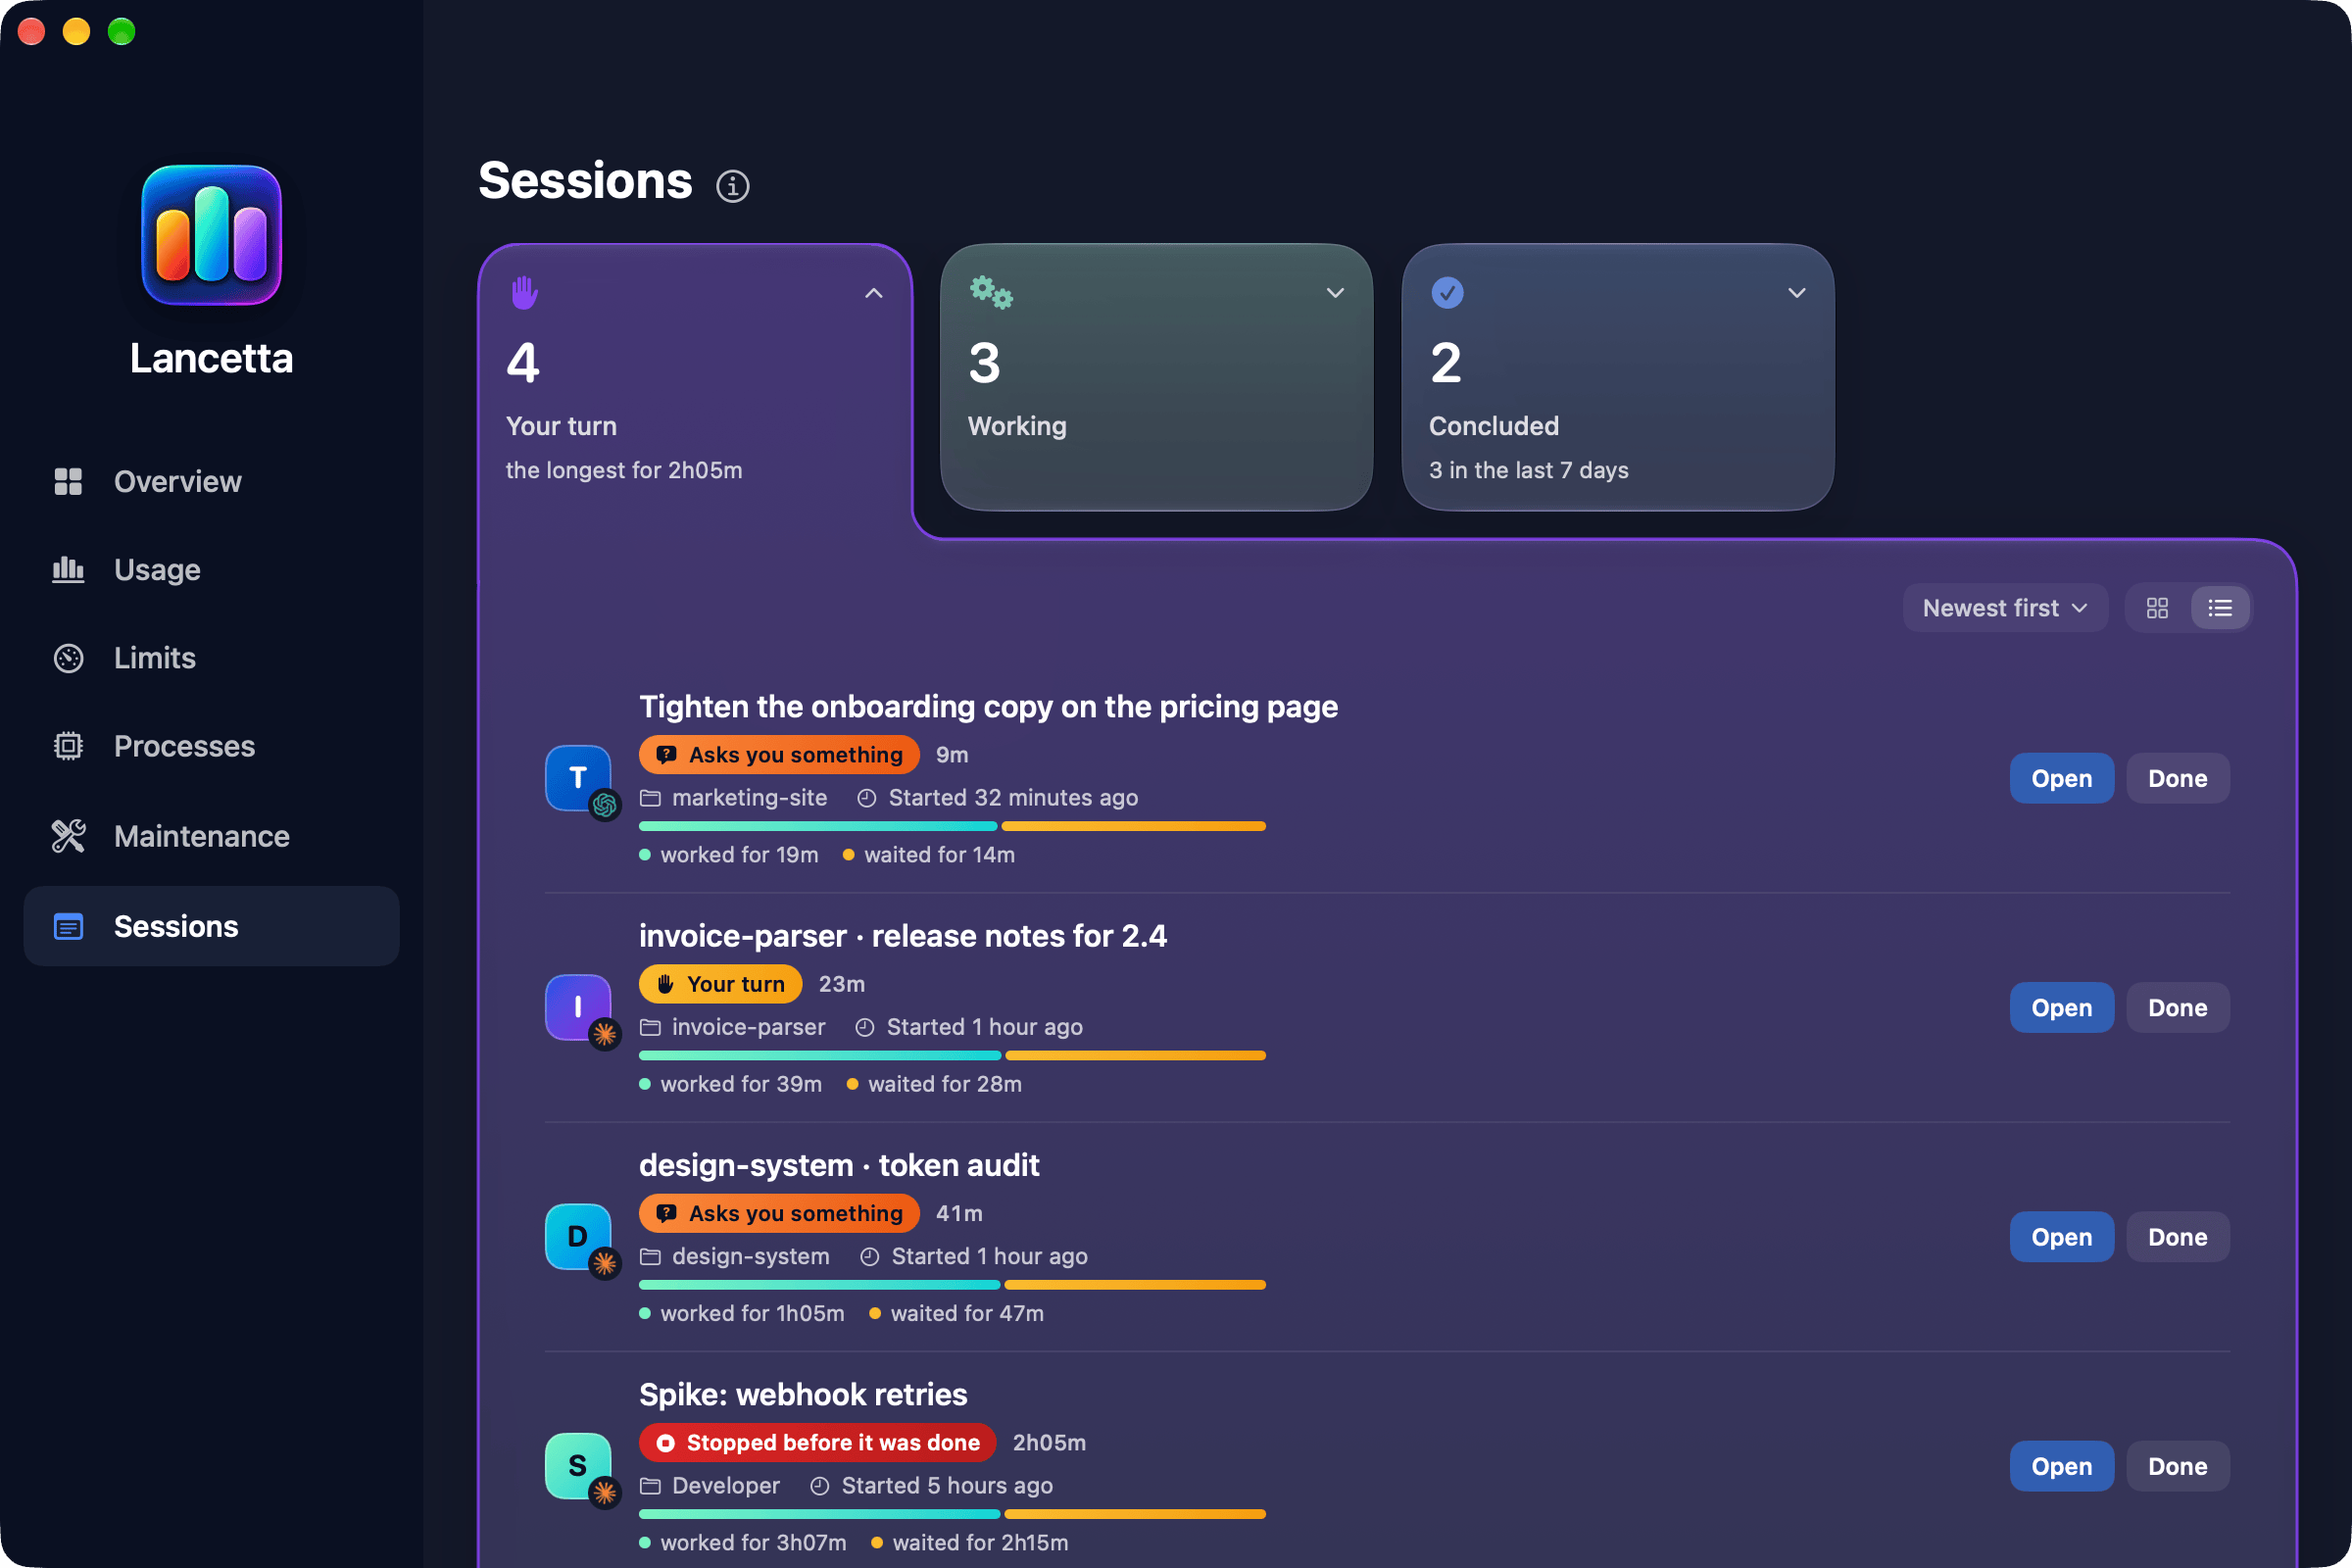
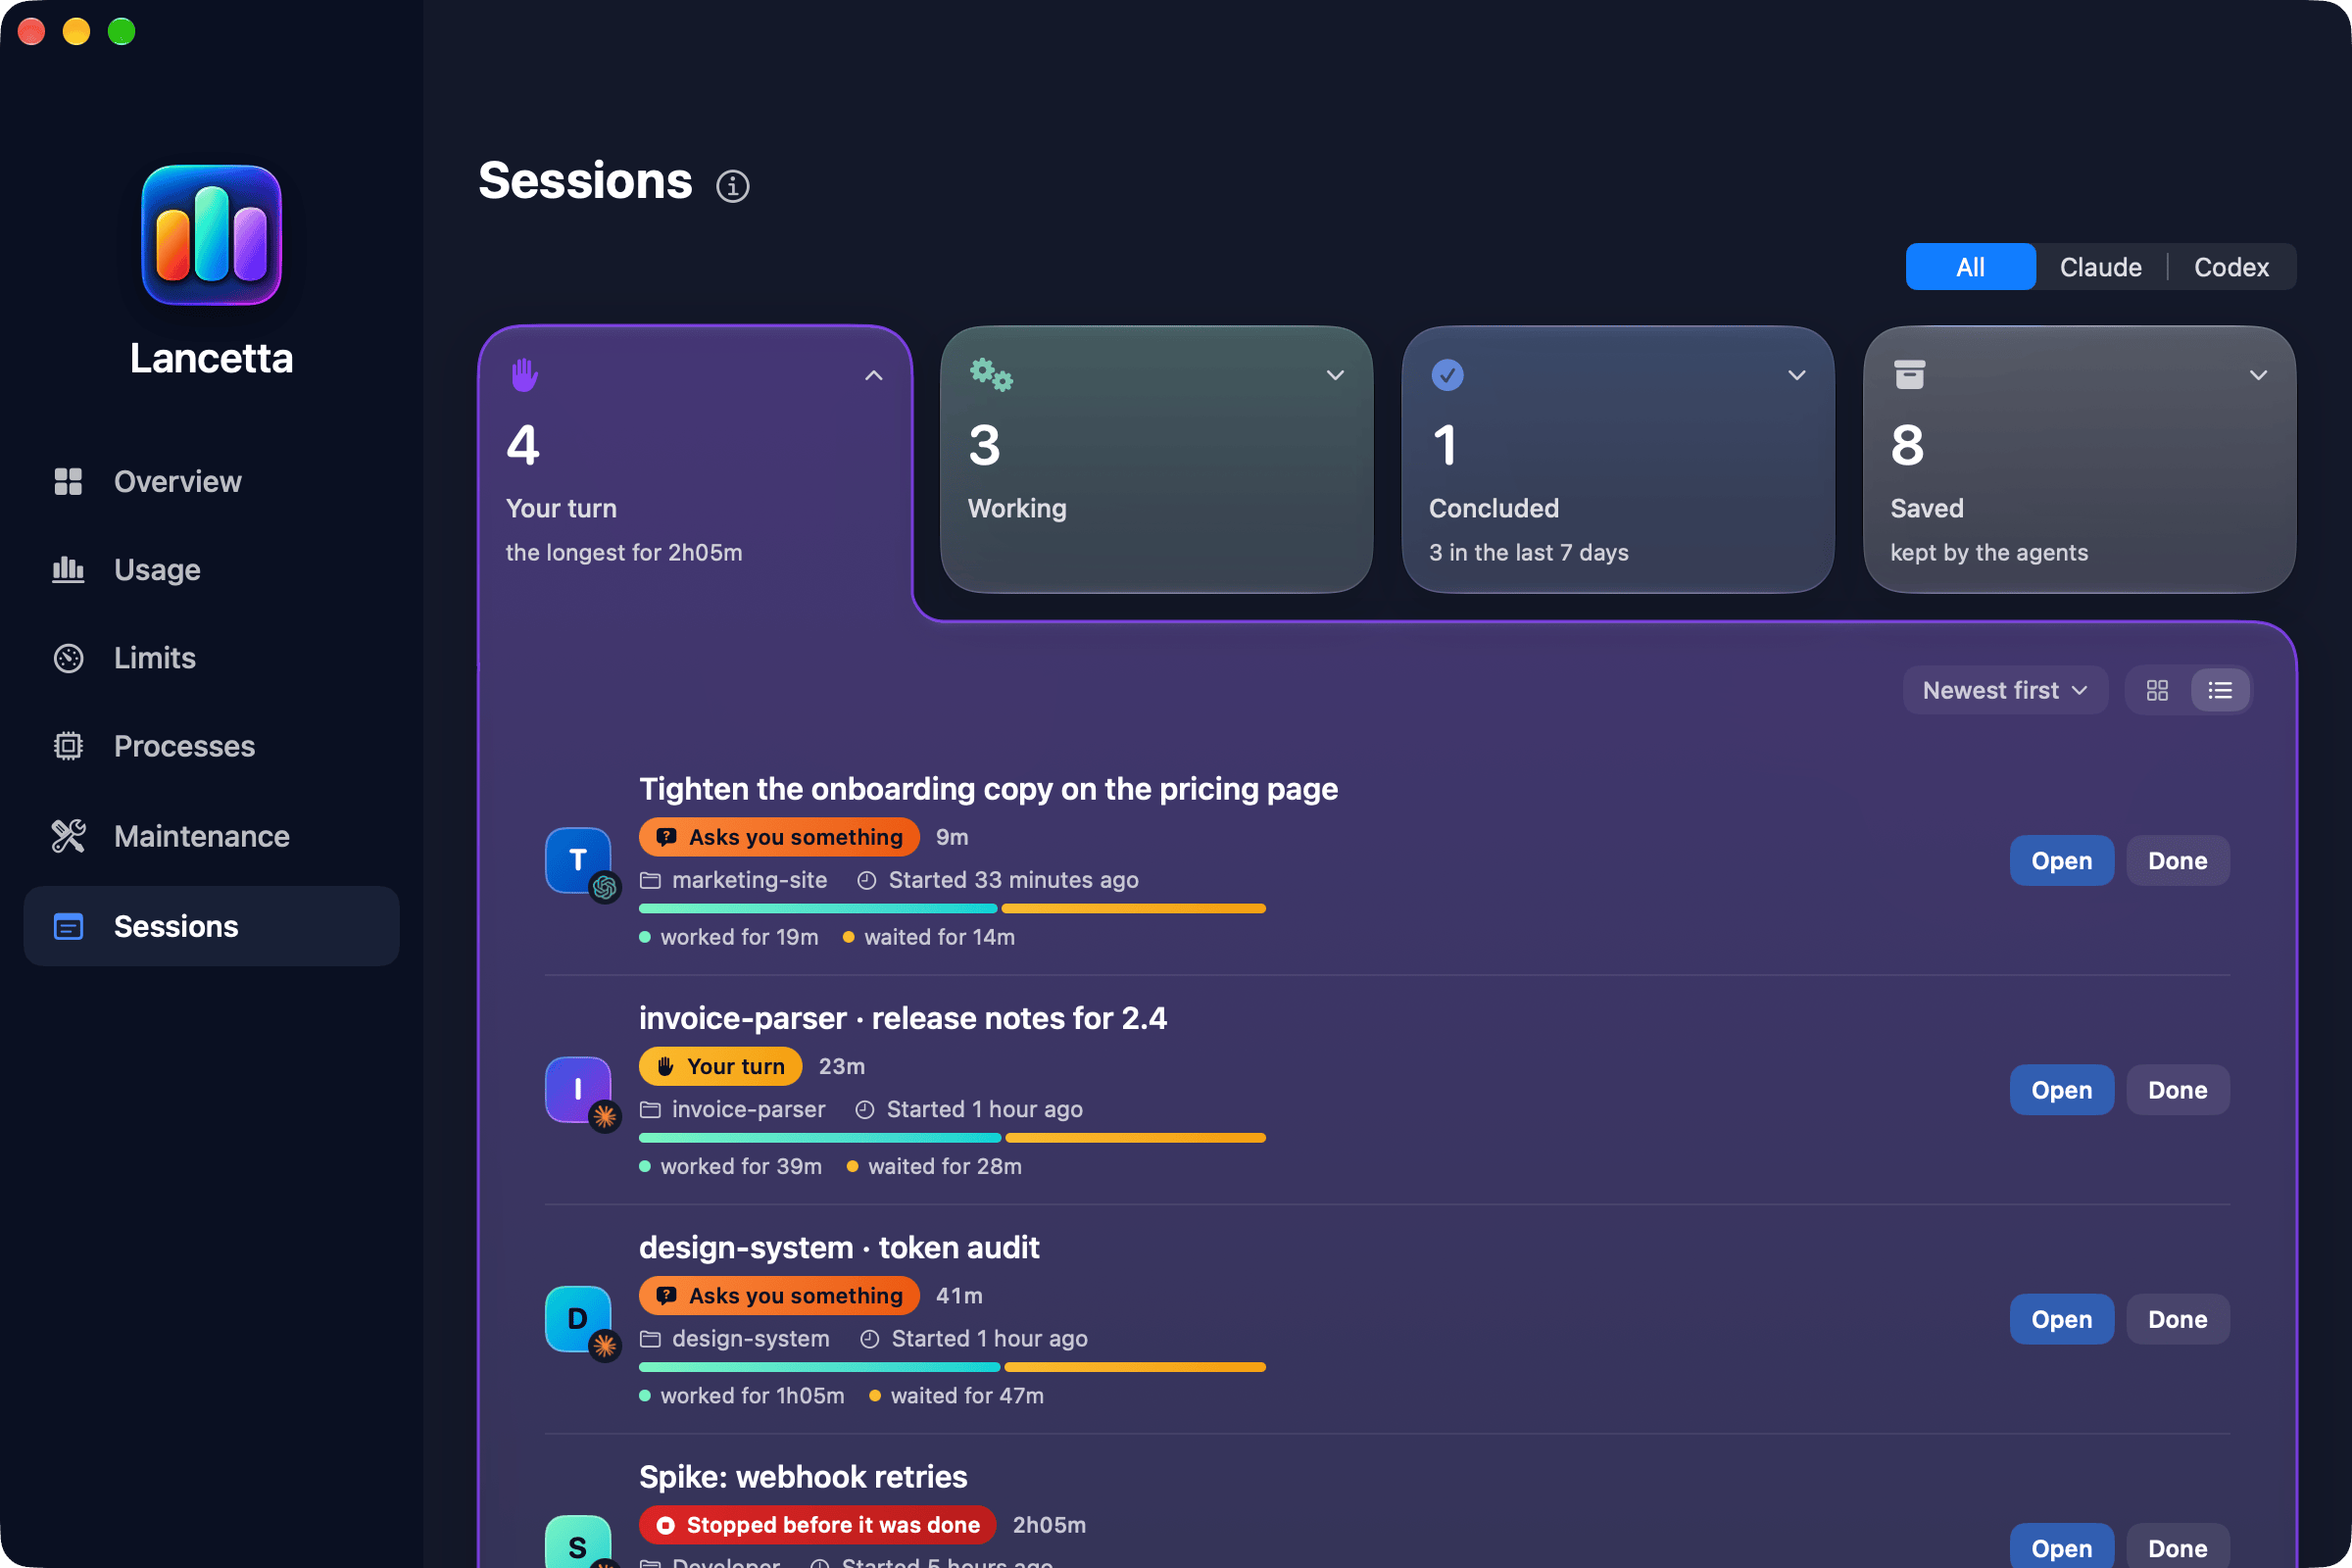
docs: re-shoot the Sessions frames, and give Saved one
0.68.0 gave the Sessions pane a fourth card, Saved, and the All /
Claude / Codex switch, and the two Sessions frames still showed three
cards. Both are re-shot from a fixture home with invented sessions on
every card, en_GB, the window active:

- screenshot-window-sessions.png (Sessions, The window): four cards
  and the switch, Your turn open.
- screenshot-panel-sessions.png (the hero): the sessions' own panel
  with the same, now 760x920 (the hero entry's height follows).
- screenshot-window-sessions-saved.png, new, under Saved on Sessions:
  Saved open on Claude Code's background sessions and Codex's.

Every alt text says what its picture now shows, and the hero's text
names the fourth card. Each frame went through ImageOptim.

diff --git a/components/HeroStage/HeroStage.tsx b/components/HeroStage/HeroStage.tsx
@@ -183,11 +183,11 @@ const frames: Frame[] = [
   {
     src: '/screenshot-panel-sessions.png',
     width: 760,
-    height: 854,
-    alt: 'The sessions’ own panel: 4 waiting on you · 3 working, Your turn open on its four sessions, each with its agent’s mark, where it stands and for how long, and the Open and Done buttons, the first a Codex session that asks you something; Working closed beside it at 3, and Concluded below: 2, and 3 in the last 7 days',
+    height: 920,
+    alt: 'The sessions’ own panel: 4 waiting on you · 3 working, Your turn open on its four sessions, each with its agent’s mark, where it stands and for how long, and the Open and Done buttons, the first a Codex session that asks you something; the All, Claude and Codex switch above the cards; Working closed beside Your turn at 3, and below them Concluded at 1, with 3 in the last 7 days, and Saved at 8, kept by the agents',
     eyebrow: 'What waits on you',
     title: 'Which session needs you.',
-    body: 'Run a few Claude Code and Codex sessions at once and the hard part stops being the work: it is remembering which one is waiting for you. Lancetta keeps every session you started as a post-it on a wall — the ones whose turn is yours first, then the ones still working, then what you concluded. A background session opens in your terminal from there, and the sessions can have a menu-bar item of their own that counts the ones waiting on you.',
+    body: 'Run a few Claude Code and Codex sessions at once and the hard part stops being the work: it is remembering which one is waiting for you. Lancetta keeps every session you started as a post-it on a wall — the ones whose turn is yours first, then the ones still working, then what you concluded, and what the agents still keep on disk, to open again or delete. A background session opens in your terminal from there, and the sessions can have a menu-bar item of their own that counts the ones waiting on you.',
     href: '/docs/sessions',
     linkLabel: 'How the wall works',
   },
